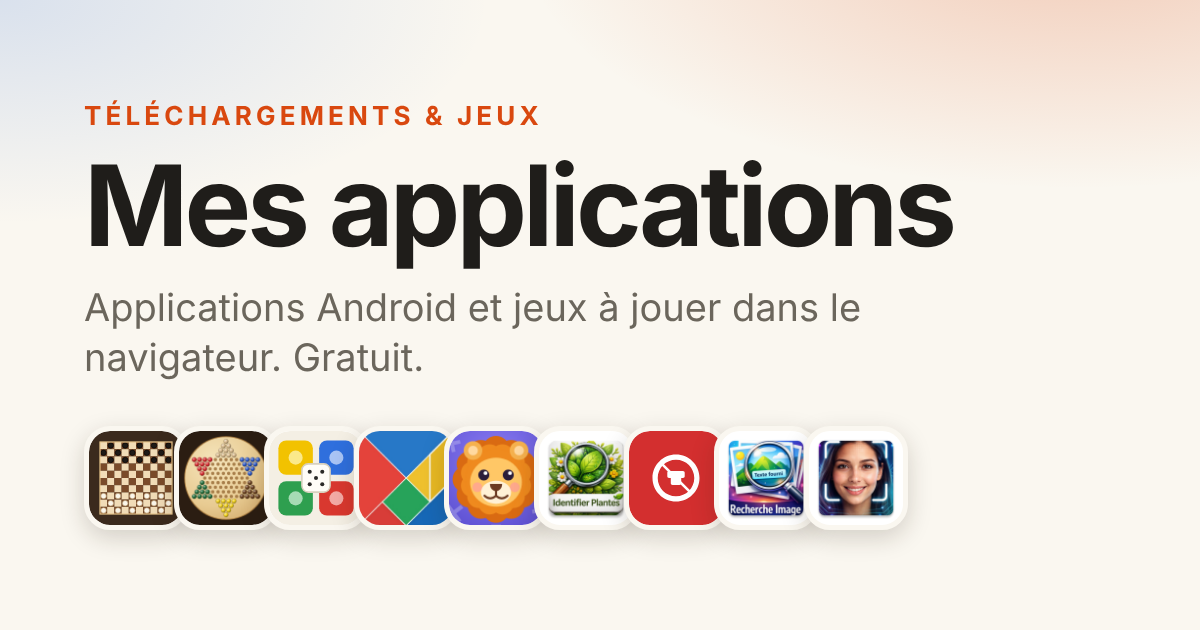
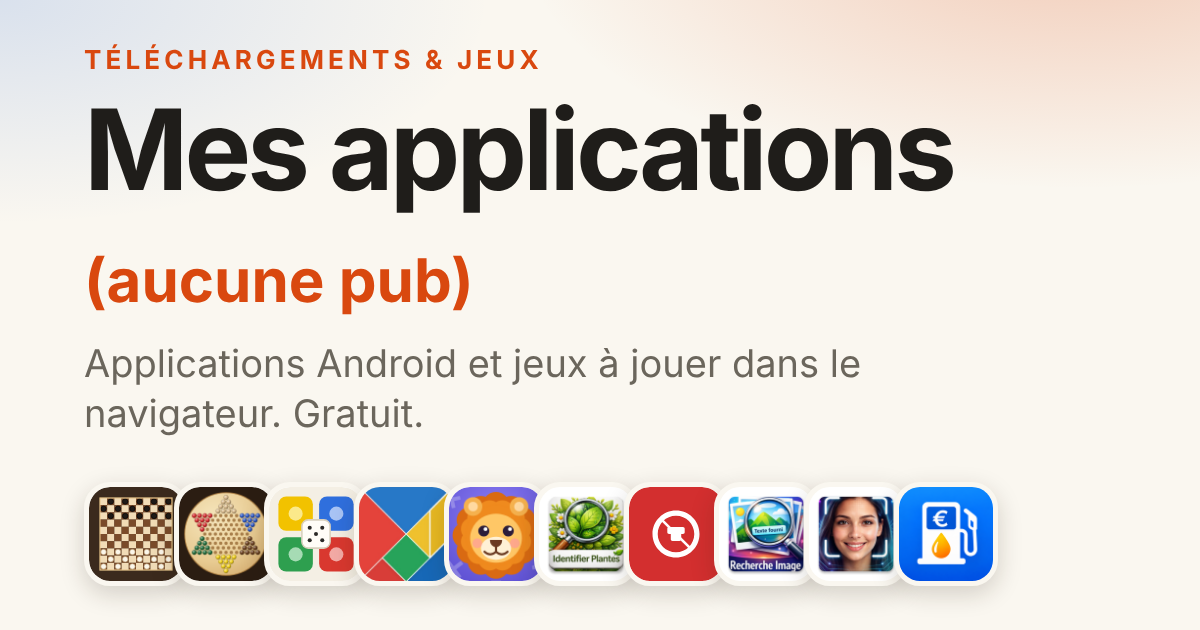
Titre : Mes applications (aucune pub), image de partage mise à jour avec CarbuPrix
Claude-Session: https://claude.ai/code/session_012hP47bfDkwNMDSv529RroJ

diff --git a/index.html b/index.html
@@ -6,15 +6,15 @@
   <meta name="color-scheme" content="light dark">
   <meta name="theme-color" content="#faf7f0" media="(prefers-color-scheme: light)">
   <meta name="theme-color" content="#14130f" media="(prefers-color-scheme: dark)">
-  <title>Mes applications — téléchargements et jeux</title>
+  <title>Mes applications (aucune pub) — téléchargements et jeux</title>
   <meta name="description" content="Applications Android (APK) et jeux jouables en ligne, à télécharger gratuitement.">
   <link rel="icon" href="assets/icons/parchis.svg" type="image/svg+xml">
 
   <!-- Aperçu quand on partage le lien (WhatsApp, Facebook, Messenger, Telegram...). Adresse du site : voir README. -->
   <meta property="og:type" content="website">
-  <meta property="og:site_name" content="Mes applications">
+  <meta property="og:site_name" content="Mes applications (aucune pub)">
   <meta property="og:locale" content="fr_FR">
-  <meta property="og:title" content="Mes applications — téléchargements et jeux">
+  <meta property="og:title" content="Mes applications (aucune pub) — téléchargements et jeux">
   <meta property="og:description" content="Applications Android (APK) et jeux jouables dans le navigateur, à télécharger gratuitement.">
   <meta property="og:url" content="https://bentarcha.github.io/benappli/">
   <meta property="og:image" content="https://bentarcha.github.io/benappli/assets/og-image.png">
@@ -32,7 +32,7 @@
   <header class="hero">
     <div class="wrap">
       <p class="eyebrow">Téléchargements &amp; jeux</p>
-      <h1 id="site-title">Mes applications</h1>
+      <h1 id="site-title">Mes applications (aucune pub)</h1>
       <p class="lead" id="site-tagline"></p>
       <ul class="stats" id="stats" aria-label="Chiffres clés"></ul>
       <div class="icon-strip" id="icon-strip" aria-hidden="true"></div>

diff --git a/confidentialite.html b/confidentialite.html
@@ -6,7 +6,7 @@
   <meta name="color-scheme" content="light dark">
   <meta name="theme-color" content="#faf7f0" media="(prefers-color-scheme: light)">
   <meta name="theme-color" content="#14130f" media="(prefers-color-scheme: dark)">
-  <title>Confidentialité — Mes applications</title>
+  <title>Confidentialité — Mes applications (aucune pub)</title>
   <meta name="description" content="Ce que chaque application demande et ce qui peut sortir de votre téléphone, expliqué simplement.">
   <link rel="icon" href="assets/icons/parchis.svg" type="image/svg+xml">
   <link rel="stylesheet" href="assets/style.css">

diff --git a/assets/app.js b/assets/app.js
@@ -31,8 +31,8 @@
 
   /* ---------- Hero ---------- */
   function renderHero() {
-    $("#site-title").textContent = SITE.title || "Mes applications";
-    document.title = (SITE.title || "Mes applications") + " — téléchargements et jeux";
+    $("#site-title").textContent = SITE.title || "Mes applications (aucune pub)";
+    document.title = (SITE.title || "Mes applications (aucune pub)") + " — téléchargements et jeux";
     $("#site-tagline").textContent = SITE.tagline || "";
     const android = APPS.filter((a) => !isWeb(a));
     const web = APPS.filter(isWeb);

diff --git a/data/apps.js b/data/apps.js
@@ -1,6 +1,6 @@
 // Données du catalogue — modifiez ce fichier pour changer les textes, ajouter ou retirer une application.
 window.SITE = {
-  "title": "Mes applications",
+  "title": "Mes applications (aucune pub)",
   "tagline": "Des applications et des jeux, à télécharger gratuitement ou à jouer en ligne.",
   // Laissez vide si les fichiers .apk sont à côté de index.html.
   // Pour les héberger ailleurs (GitHub Releases...), indiquez l'adresse du dossier, par exemple :
